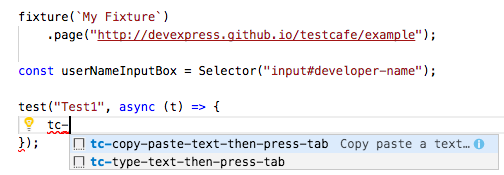
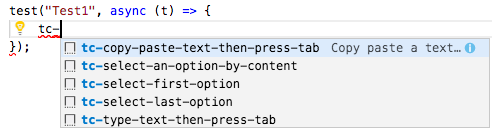
feat(snippet): add snippets for selecting an option

Changed region(s): [[0.0, 0.0301, 1.0, 0.5414], [0.0305, 0.5714, 1.0, 0.9925], [0.0305, 0.782, 0.0915, 0.8722]]

diff --git a/CHANGELOG.md b/CHANGELOG.md
@@ -4,7 +4,11 @@ All notable changes to this project will be documented in this file.
 The format is based on [Keep a Changelog](http://keepachangelog.com/en/1.0.0/)
 and this project adheres to [Semantic Versioning](http://semver.org/spec/v2.0.0.html).
 
-## [1.0.0] - 2017-12-05
+
+## [1.0.0] - 2017-12-06
 ### Added
 - tc-type-text
 - tc-copy-paste-text
+- tc-select-an-option-by-content
+- tc-select-first-option
+- tc-select-last-option
